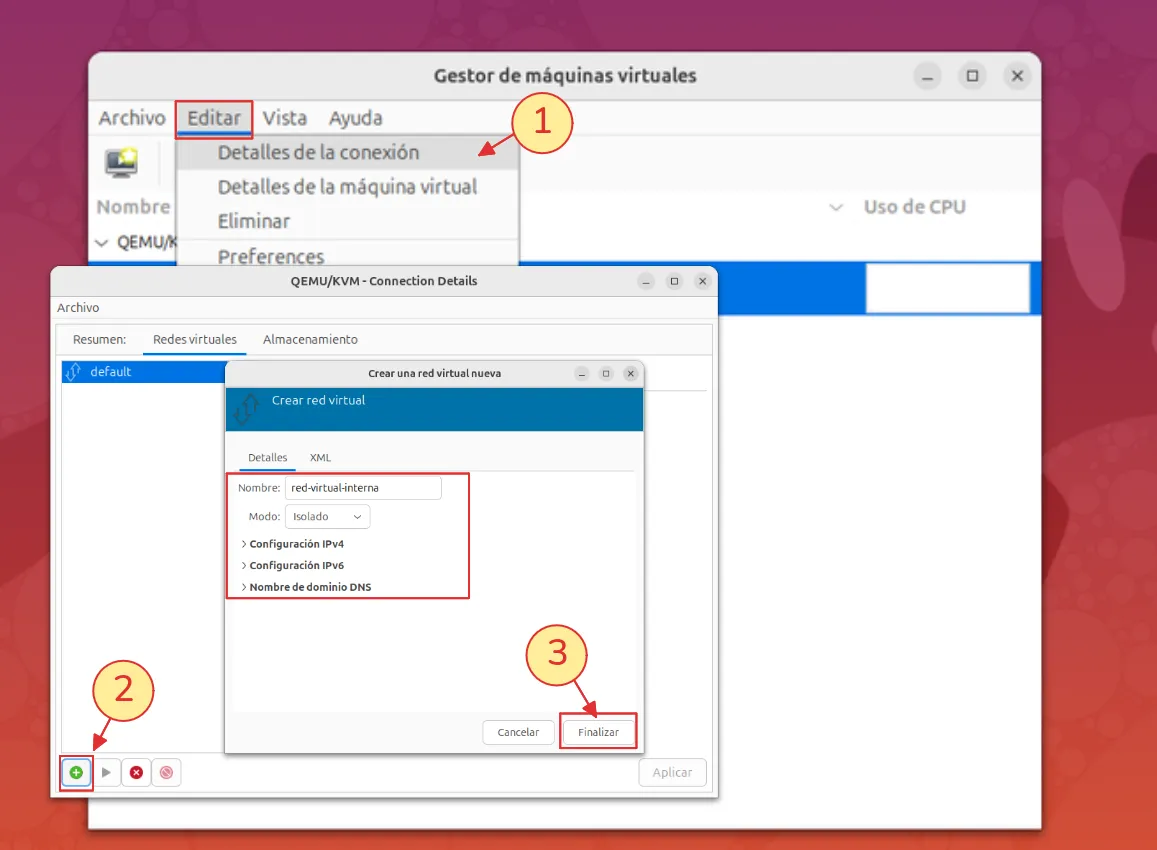
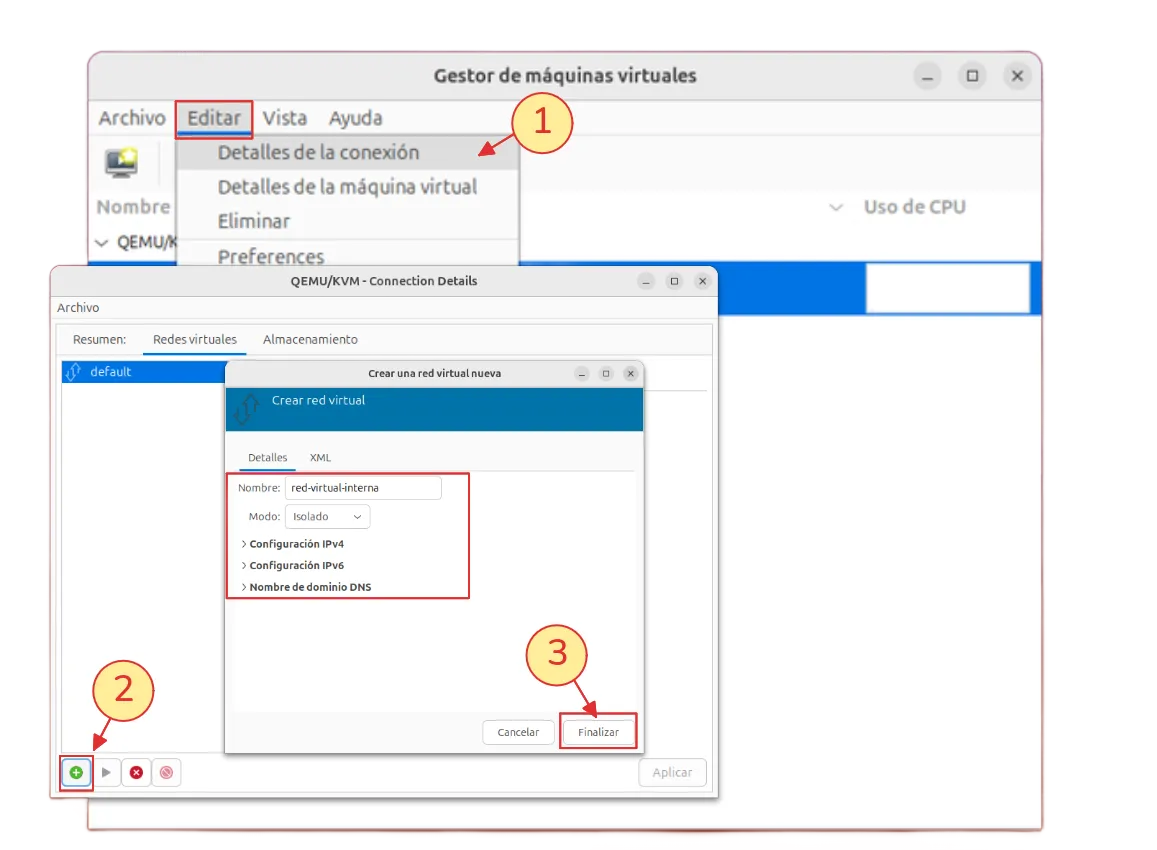
chore(post): update post

Changed region(s): [[0.0, 0.0, 1.0, 1.0], [0.4667, 0.3059, 0.4978, 0.3365]]

diff --git a/assets/css/libs/reveal.js/theme/black.css b/assets/css/libs/reveal.js/theme/black.css
@@ -43,7 +43,7 @@ section.has-light-background h6 {
 :root {
   --r-background-color: #191919;
   --r-main-font: 'Source Sans Pro', Helvetica, sans-serif;
-  --r-main-font-size: 34px;
+  --r-main-font-size: 31px;
   --r-main-color: #fff;
 
   --r-block-margin: 20px;

diff --git a/assets/css/libs/reveal.js/theme/white.css b/assets/css/libs/reveal.js/theme/white.css
@@ -43,7 +43,7 @@ section.has-dark-background h6 {
 :root {
   --r-background-color: #fff;
   --r-main-font: 'Source Sans Pro', Helvetica, sans-serif;
-  --r-main-font-size: 34px;
+  --r-main-font-size: 31px;
   --r-main-color: #222;
 
   --r-block-margin: 20px;

diff --git a/_slides/instalacion-mongodb-en-windows.md b/_slides/instalacion-mongodb-en-windows.md
@@ -4,42 +4,53 @@ title: Instalación de MongoDB y Mongo Compass en Windows
 
 <section data-markdown>
   <textarea data-template>
-    # Instalar MongoDB Community Server
+
+    ![](/assets/media/mongodb/mongodb-proto.avif)
+
+    ## Instalar MongoDB Community Server
     ## Descarga en 👇
 
     <a href="https://www.mongodb.com/try/download/community" target="_blank">
       https://www.mongodb.com/try/download/community
     </a>
     ---
-    <!-- .slide: 
-      data-background-image="/assets/media/mongodb/instalacion-windows/_01.webp"
-      data-background-size="contain"
-      data-background-position="center"
-    -->
+    
+    :::row
+    ![](/assets/media/mongodb/mongodb-proto.avif)
+    
+    Hello world
+    :::
+
     ---
-    <!-- .slide: 
-      data-background-image="/assets/media/mongodb/instalacion-windows/_02.webp"
-      data-background-size="cover"
-      data-background-position="center"
-    -->
+
+    ### 1. Descargar y ejecutar el asistente
+
+    <img src="/assets/media/mongodb/instalacion-windows/_01.webp" width="100%" data-preview-image data-preview-fit="cover">
+
     ---
-    <!-- .slide: 
-      data-background-image="/assets/media/mongodb/instalacion-windows/_03.webp"
-      data-background-size="contain"
-      data-background-position="center"
-    -->
+
+    ### 2. Aceptar términos
+
+    <img src="/assets/media/mongodb/instalacion-windows/_02.webp" width="100%" data-preview-image data-preview-fit="cover">
+
     ---
-    <!-- .slide: 
-      data-background-image="/assets/media/mongodb/instalacion-windows/_04.webp"
-      data-background-size="contain"
-      data-background-position="center"
-    -->
+
+    ### 3. Tipo de instalación
+
+    <img src="/assets/media/mongodb/instalacion-windows/_03.webp" width="100%" data-preview-image data-preview-fit="cover">
+
     ---
-    <!-- .slide: 
-      data-background-image="/assets/media/mongodb/instalacion-windows/_05.webp"
-      data-background-size="contain"
-      data-background-position="center"
-    -->
+
+    ### 4. Destino de instalación
+
+    <img src="/assets/media/mongodb/instalacion-windows/_04.webp" width="100%" data-preview-image data-preview-fit="cover">
+
+    ---
+
+    ### 5. Configurar el servicio de MongoDB
+
+    <img src="/assets/media/mongodb/instalacion-windows/_05.webp" width="100%" data-preview-image data-preview-fit="cover">
+
     ---
     <!-- .slide: 
       data-background-image="/assets/media/mongodb/instalacion-windows/_06.webp"

diff --git a/_slides/instalacion-windows-server-2022.md b/_slides/instalacion-windows-server-2022.md
@@ -196,7 +196,7 @@ title: Instalación de Windows Server 2022
       style="text-align: center"
     -->
 
-    <img src="/assets/media/ubuntu/virt-manager-crear-nueva-red.webp" width="55%" data-preview-image data-preview-fit="contain">
+    <img src="/assets/media/ubuntu/virt-manager-crear-nueva-red.webp" width="65%" data-preview-image data-preview-fit="cover">
 
     ---
 
